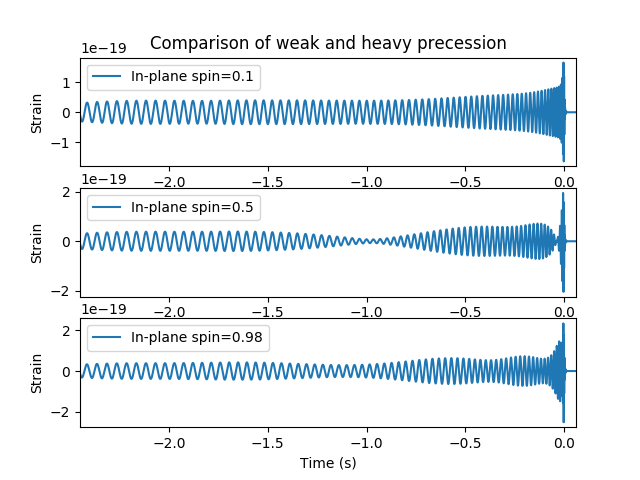
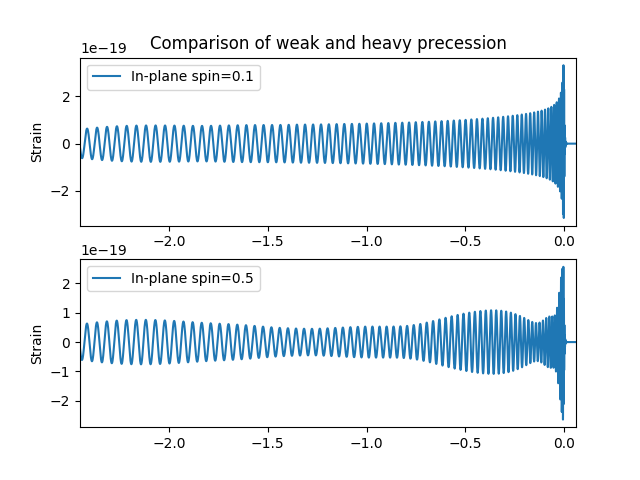
Swapping some figures around

diff --git a/Report/plot_onlyone.py b/Report/plot_onlyone.py
@@ -1,0 +1,39 @@
+import matplotlib.pyplot as plt
+from pycbc.waveform import get_td_waveform
+inc=0
+apx="IMRPhenomPv2"
+hp, hc = get_td_waveform(approximant=apx,inclination=inc,
+                                 mass1=30,
+                                 mass2=10,
+                                 spin1z=0.0,
+                                 spin1x=0.2,
+                                 delta_t=1.0/4096,
+                                 f_lower=20)
+
+
+sp, sc = get_td_waveform(approximant=apx,inclination=inc,
+                                 mass1=30,
+                                 mass2=10,
+                                 spin1x=0.95,
+                                 spin1z=0.0,
+                                 delta_t=1.0/4096,
+                                 f_lower=20)
+
+
+
+
+lowlim=-2.45
+plt.figure()
+plt.subplot(2,1,1)
+plt.title("Comparison of weak and heavy precession")
+plt.plot(hp.sample_times, hp, label="In-plane spin=0.1")
+plt.ylabel('Strain')
+plt.xlim(lowlim,hp.sample_times[-1])
+plt.legend(loc="best")
+plt.subplot(2,1,2)
+plt.plot(sp.sample_times, sp, label="In-plane spin=0.5")
+plt.ylabel('Strain')
+plt.legend(loc="best")
+plt.xlim(lowlim,hp.sample_times[-1])
+plt.show("hold")
+plt.savefig("precessfig")
